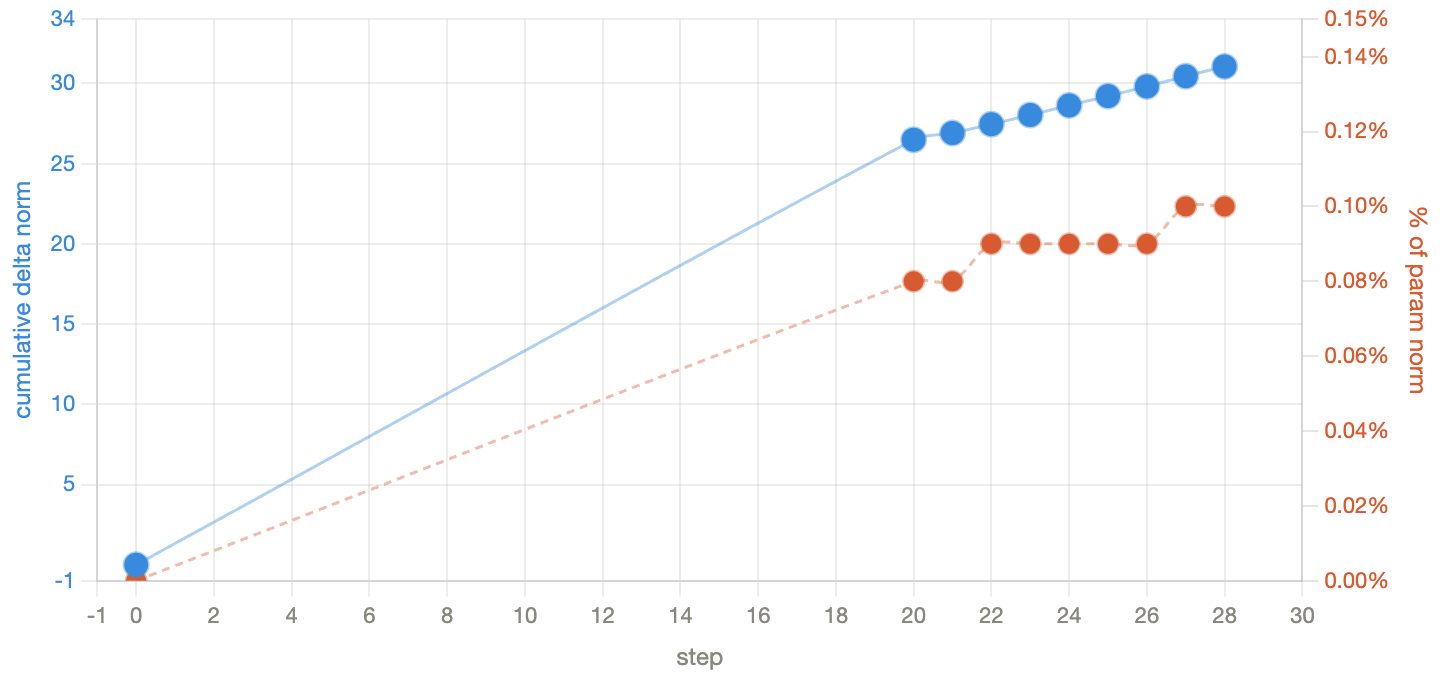
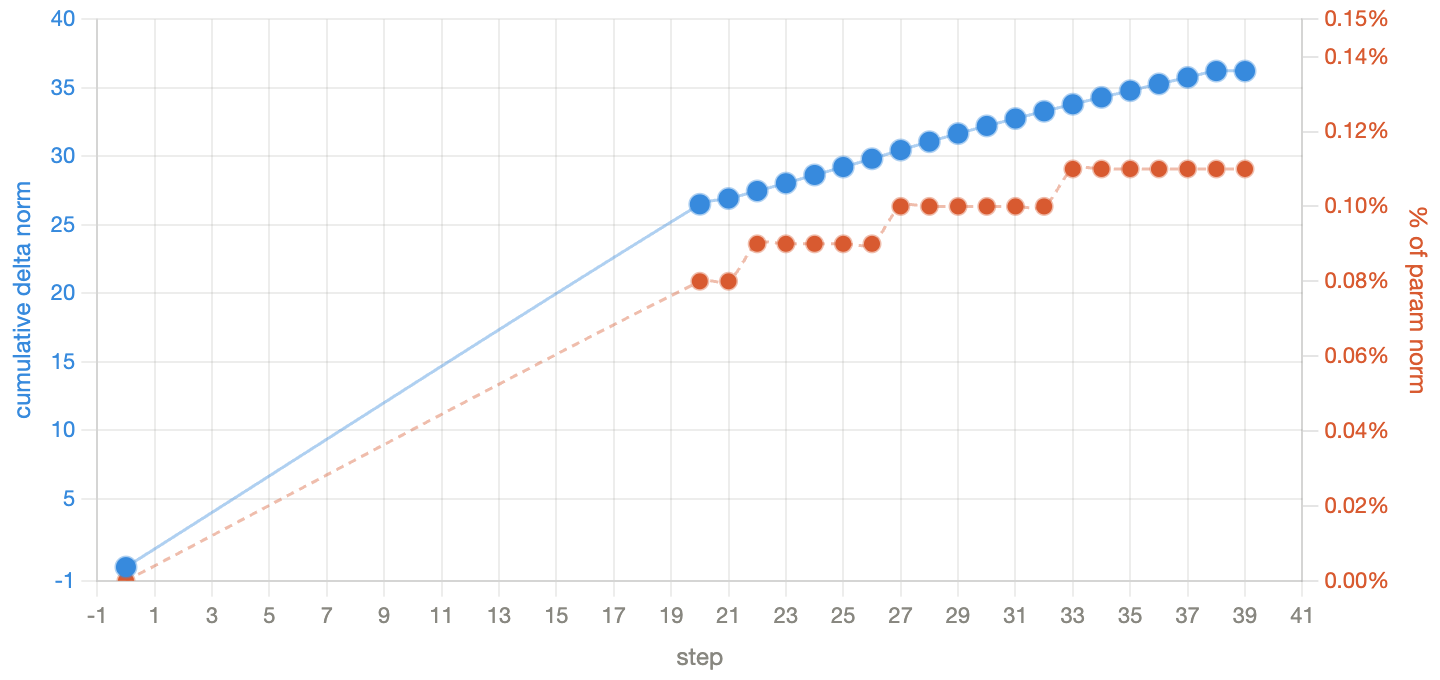
Added summaries up to step 39

diff --git a/train/train_multiturn.py b/train/train_multiturn.py
@@ -232,6 +232,7 @@ def _feedback_message(eval_result: dict, kernel: str | None, text: str) -> str:
 def run_training(
     run_name: str = "qwen3-8b-kbl1-multiturn-v1-0p45t-3em5lr",
     resume_checkpoint: str = "",
+    resume_stuck: int = 0,
 ):
     """Multi-turn GRPO training over all Level 1 problems, easiest → hardest."""
     os.environ["PYTORCH_ALLOC_CONF"] = "expandable_segments:True"
@@ -386,7 +387,7 @@ def run_training(
         # Retry any None-result (lock file / transient infra failure)
         retry_indices = [
             i for i, r in first_pass.items()
-            if r.get("error_message", "").startswith("Evaluation returned None")
+            if (r.get("error_message") or "").startswith("Evaluation returned None")
         ]
         if retry_indices:
             print(f"  [eval] retrying {len(retry_indices)} transient None result(s): {retry_indices}")
@@ -511,7 +512,7 @@ def run_training(
     os.makedirs(output_dir, exist_ok=True)
     optimizer.zero_grad()
 
-    consecutive_stuck = 0
+    consecutive_stuck = resume_stuck
     reset_count = 0
     if resume_checkpoint:
         state_path = f"/runs/{run_name}/{resume_checkpoint}/state.json"
@@ -562,6 +563,7 @@ def run_training(
         print(f"\n{'='*80}")
         print(
             f"STEP {global_step + 1} START  ({problem_name})  [problem {problem_idx + 1}/{len(train_ds)}]"
+            f"  stuck={consecutive_stuck}/{STUCK_THRESHOLD}"
         )
         print(f"temp={TEMPERATURE:.2f}  lr={LEARNING_RATE:.2e}  {_now_et()}")
         print(f"{'='*80}")
@@ -626,6 +628,14 @@ def run_training(
                     _print_turn(
                         global_step + 1, turn_num, i, convs[i], texts[i], rewards[i]
                     )
+
+            turn_correct = sum(1 for r in rewards if r > CORRECT_THRESHOLD)
+            turn_mean_reward = sum(rewards) / NUM_GENERATIONS
+            turn_mean_len = sum(c.shape[1] for c in comp_ids) / NUM_GENERATIONS
+            print(
+                f"  [turn {turn_num}] correct={turn_correct}/{NUM_GENERATIONS} "
+                f"mean_reward={turn_mean_reward:.4f}  mean_len={turn_mean_len:.0f} tokens"
+            )
 
             all_texts.append(texts)
             all_kernels.append(kernels)
@@ -826,6 +836,7 @@ def run_training(
                             "global_step": global_step,
                             "problem_idx": 0,
                             "reset_count": reset_count,
+                            "consecutive_stuck": 0,
                         },
                         f,
                     )
@@ -844,7 +855,7 @@ def run_training(
             ckpt = f"{output_dir}/step_{global_step}"
             model.save_pretrained(ckpt)
             with open(f"{ckpt}/state.json", "w") as f:
-                json.dump({"global_step": global_step, "problem_idx": problem_idx}, f)
+                json.dump({"global_step": global_step, "problem_idx": problem_idx, "consecutive_stuck": consecutive_stuck}, f)
             runs_volume.commit()
             print(
                 f"[step {global_step}] Saved checkpoint: {ckpt} (problem_idx={problem_idx})"
@@ -866,5 +877,6 @@ def run_training(
 def main(
     run_name: str = "qwen3-8b-kbl1-multiturn-v1-0p45t-3em5lr",
     resume_checkpoint: str = "",
+    resume_stuck: int = 0,
 ):
-    run_training.remote(run_name=run_name, resume_checkpoint=resume_checkpoint)
+    run_training.remote(run_name=run_name, resume_checkpoint=resume_checkpoint, resume_stuck=resume_stuck)

diff --git a/README.md b/README.md
@@ -79,9 +79,19 @@ Reduction operations where custom CUDA can realistically beat PyTorch. Multi-tur
 | 29 | Min reduction | 2/8 | 4/8 | 2 | **1.111** |
 | 30 | Argmax | 0/8 | 2/8 | 2 | 0.981 |
 
+### Figures
+
+Steps 11 and 13 were `MinGPTNewGelu` and `Matmul_with_diagonal_matrices`, where the PyTorch baseline is doing far more work than necessary, and the model recognizes the shortcut. In `MinGPTNewGelu`, PyTorch executes the mathematical expression as ~5 separate elementwise kernel launches, each one of which reading and writing the full tensor to global memory. The model fuses all of it into a single kernel that reads each element once. In `Matmul_with_diagonal_matrices`, PyTorch does a full matrix multiplication, but it's really just scaling each row of each matrix by the corresponding diagonal element, which is a single elementwise multiply.
+
 ![Mean best reward over training steps](figures/mean_best_reward.png)
 
+Mean completion length grows during the first epoch as the model attempts to write more difficult kernels.
+
 ![Mean best completion length over training steps](figures/mean_best_length.png)
+
+I clipped the `grad_norm` to 0.5. Step 38 was an especially difficult problem for the model: `CrossEntropyLoss`, which is a log softmax combined with NLL loss, which means each row requires a max reduction, a sum reduction, and a final scalar output. PyTorch's implementation is already highly optimized with fused kernels, and there are many moving parts for the model to get right.
+
+![Grad norm over training steps](figures/grad_norm.png)
 
 ## LoRA Weight Analysis
 
